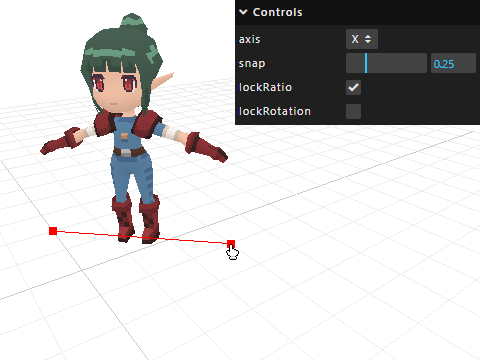
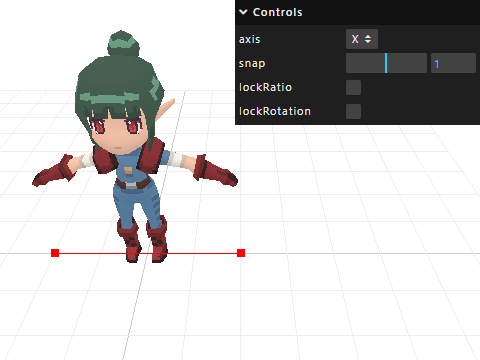
Update demo styling

diff --git a/src/js/Demo.js b/src/js/Demo.js
@@ -27,7 +27,7 @@ class Demo {
 
     // Add putty controls (for transforming objects)
     this.puttyControls = new PuttyControls(this.camera, this.renderer.domElement);
-    this.puttyControls.snap = 0.25;
+    this.puttyControls.snap = 1;
     this.puttyControls.axis = 'X';
     this.puttyControls.addEventListener('dragstart', () => this.orbitControls.enabled = false);
     this.puttyControls.addEventListener('dragend', () => this.orbitControls.enabled = true);
@@ -35,22 +35,22 @@ class Demo {
     // Add GUI
     this.gui = new GUI();
     this.gui.add(this.puttyControls, 'axis', ['X', 'Y', 'Z']);
-    this.gui.add(this.puttyControls, 'snap').min(0).step(0.25).max(1);
+    this.gui.add(this.puttyControls, 'snap').min(0).step(1).max(2);
     this.gui.add(this.puttyControls, 'lockRatio');
     this.gui.add(this.puttyControls, 'lockRotation');
   }
 
   init() {
     // Update camera
-    this.camera.position.set(1, 2, 2);
-    this.orbitControls.target.set(0, 0.5, 0);
+    this.camera.position.set(0, 8, 8);
+    this.orbitControls.target.set(0, 2, 0);
     this.orbitControls.update();
 
     // Add hemisphere light
     this.scene.add(new HemisphereLight('#ffffff', '#cccccc', Math.PI));
 
     // Add grid helper
-    this.scene.add(new GridHelper(8, 32, '#cccccc', '#eeeeee'));
+    this.scene.add(new GridHelper(16, 16, '#cccccc', '#eeeeee'));
 
     // Add Putty controls object to scene
     this.scene.add(this.puttyControls.getHelper());
@@ -58,6 +58,7 @@ class Demo {
     // Load model
     this.assets.load('glb/player.glb', model => {
       this.scene.add(model);
+      model.scale.set(4, 4, 4)
       this.puttyControls.attach(model);
     });
   }

diff --git a/src/scss/Global.scss b/src/scss/Global.scss
@@ -17,6 +17,11 @@ html {
   touch-action: manipulation;
   width: 100vw;
 
+  .lil-gui.autoPlace {
+    top: 0;
+    right: 0;
+  }
+
   body {
     margin: 0;
     font-family: 'Arial', sans-serif;
@@ -31,6 +36,10 @@ html {
     #app {
       height: inherit;
       width: inherit;
+
+      canvas {
+        image-rendering: pixelated;
+      }
     }
   }
 }
